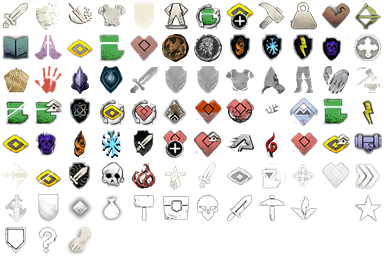
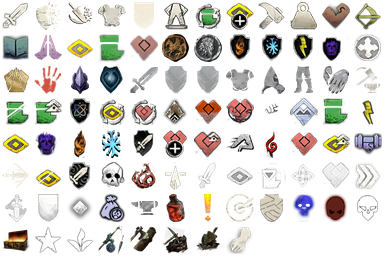
Item sources: game activity/map glyphs and our own category names
Source chips now use the game's own icons for each origin (merchant, crafting,
refinery, quest, bounty, challenge, Pestilence, enemy, boss, chest, shiny,
foraging, fishing, woodcutting, mining, digging) and our own labels.

Changed region(s): [[0.0, 0.75, 1.0, 1.0]]

diff --git a/index.html b/index.html
@@ -98,11 +98,12 @@
     StatMaxFocus:['FOC+','Max Focus'],StatEquipLoad:['LOAD','Equip Load'],StatAttackSpeed:['ATKSPD','Attack Speed'],StatFocusCost:['FOC−','Focus Cost'],
     StatStaggerResistance:['STAG','Stagger Resistance'],StatFatality:['FATAL','Fatality']
   };
-  var SRC={0:'Vendor',1:'Crafting',2:'Refinery',3:'Quest',4:'Reward',5:'Event',10:'Bounty',11:'Challenge',12:'Trial',13:'Pestilence Loot',20:'Enemy',21:'Boss',30:'Chest',31:'Shiny',32:'Breakable',33:'Pickup',40:'Fishing',41:'Wood Cutting',42:'Ore Mining',43:'Digging',50:'Other'};
+  // Where an item comes from, derived from the game's loot tables (vendor stock, bounty/challenge rewards,
+  // Pestilence cleanse rewards, enemy and boss drops, chests, shinies, foraging, fishing, trees, ore, digging spots).
+  var SRC={0:'Vendor',1:'Crafting',2:'Refinery',3:'Quest Reward',10:'Bounty',11:'Challenge',13:'Pestilence Reward',20:'Enemy Drop',21:'Boss Drop',30:'Chest',31:'Shiny',33:'Foraging',40:'Fishing',41:'Woodcutting',42:'Mining',43:'Digging'};
   function esc(s){ return String(s==null?'':s).replace(/[&<>"]/g,function(c){ return {'&':'&amp;','<':'&lt;','>':'&gt;','"':'&quot;'}[c]; }); }
   function icon(id,inl){ id=String(id).replace(/^fi-/,''); var a=ABBR[id]||[id.replace(/^(fi-|icon|Stat)/,'').slice(0,5).toUpperCase(),id]; return '<i class="wd-ic'+(inl?' inl':'')+'" data-ic="'+esc(id)+'" title="'+esc(a[1])+'"><span>'+esc(a[0])+'</span></i>'; }
-  var SRC_IC={0:'srcVendor',1:'srcCrafting',2:'srcCrafting',3:'srcQuest',10:'srcChallenge',11:'srcChallenge',20:'srcEnemy',21:'srcBoss',30:'srcChest',31:'srcShiny',33:'srcPlant',42:'srcOre'};
-  function srcChip(n){ var nm=SRC[n]||('Source '+n); return '<span class="wd-src" data-s="'+n+'">'+(SRC_IC[n]?'<i class="wd-ic" data-ic="'+SRC_IC[n]+'"></i>':'')+esc(nm)+'</span>'; }
+  function srcChip(n){ var nm=SRC[n]||('Source '+n); return '<span class="wd-src" data-s="'+n+'">'+(SRC[n]?'<i class="wd-ic" data-ic="src'+n+'"></i>':'')+esc(nm)+'</span>'; }
   function itemHref(key){ try{ if(window.__itemUrl) return window.__itemUrl(key); }catch(e){} return '#item/'+encodeURIComponent(key); }
   function linkHtml(l){
     var ic=l.pos?'<span class="wd-li-ic" style="background-position:'+l.pos[0]+'px '+l.pos[1]+'px"></span>':'<span class="wd-li-ic none"></span>';
@@ -2834,7 +2835,7 @@ footer li{color:#6f665b}
     <p class="m-cat-intro" data-m="intro:catalog">Hover or tap a card for the item&rsquo;s full panel.</p>
     <!-- SRCKEY -->
     <div class="src-key" data-m="srckey:catalog">
-      <span class="src-key-label">Sources, as shown on each item&rsquo;s full panel</span>
+      <span class="src-key-label">Where items come from, as shown on each item&rsquo;s full panel</span>
       <span class="src-item" data-src="0"></span>
       <span class="src-item" data-src="1"></span>
       <span class="src-item" data-src="2"></span>
@@ -7125,7 +7126,7 @@ var FACET_DATA=[{"n":"Frantic","it":32,"m":[[45,1,0.1],[21,1,-0.2]],"inf":null,"
   // lands on an item page straight from a link or search never sees it. Name each icon (hover /
   // screen-reader title) and list this item's own sources in words under the card. Same legend as
   // the Trove's .src-key block - keep the two in step.
-  var SRC_NAMES={0:'Vendor',1:'Crafting',2:'Refinery',3:'Quest Related',10:'Bounty',11:'Challenge',13:'Pestilence Extra Loot',20:'Enemy',21:'Boss',30:'Chest',31:'Shiny',33:'Pickup',40:'Fishing',41:'Wood Cutting',42:'Ore Mining',43:'Digging'};
+  var SRC_NAMES=WDCARD.SRC;
   function ipSourceKey(box){
     var ids=[]; box.querySelectorAll('.wd-src[data-s]').forEach(function(el){ var i=el.getAttribute('data-s'); if(SRC_NAMES[i]&&ids.indexOf(i)<0) ids.push(i); });
     if(!ids.length) return '';

diff --git a/tt.css b/tt.css
@@ -105,19 +105,24 @@
 .wd-ic[data-ic="groupK"]{background-position:-0px -132px;--gx:-0px;--gy:-192px}
 .wd-ic[data-ic="groupL"]{background-position:-22px -132px;--gx:-32px;--gy:-192px}
 .wd-ic[data-ic="groupNone"]{background-position:-44px -132px;--gx:-64px;--gy:-192px}
-.wd-ic[data-ic="srcVendor"]{background-position:-66px -132px;--gx:-96px;--gy:-192px}
-.wd-ic[data-ic="srcCrafting"]{background-position:-88px -132px;--gx:-128px;--gy:-192px}
-.wd-ic[data-ic="srcChest"]{background-position:-110px -132px;--gx:-160px;--gy:-192px}
-.wd-ic[data-ic="srcBoss"]{background-position:-132px -132px;--gx:-192px;--gy:-192px}
-.wd-ic[data-ic="srcEnemy"]{background-position:-154px -132px;--gx:-224px;--gy:-192px}
-.wd-ic[data-ic="srcOre"]{background-position:-176px -132px;--gx:-256px;--gy:-192px}
-.wd-ic[data-ic="srcPlant"]{background-position:-198px -132px;--gx:-288px;--gy:-192px}
-.wd-ic[data-ic="srcQuest"]{background-position:-220px -132px;--gx:-320px;--gy:-192px}
-.wd-ic[data-ic="srcShiny"]{background-position:-242px -132px;--gx:-352px;--gy:-192px}
-.wd-ic[data-ic="srcChallenge"]{background-position:-0px -154px;--gx:-0px;--gy:-224px}
-.wd-ic[data-ic="srcUnknown"]{background-position:-22px -154px;--gx:-32px;--gy:-224px}
-.wd-ic[data-ic="utilityRune"]{background-position:-44px -154px;--gx:-64px;--gy:-224px}
-.wd-ic[data-ic^="src"]{width:16px;height:16px;vertical-align:-3px;background-size:192px 128px;background-position:calc(var(--gx) * 16 / 32) calc(var(--gy) * 16 / 32);opacity:.85}
+.wd-ic[data-ic="src0"]{background-position:-66px -132px;--gx:-96px;--gy:-192px}
+.wd-ic[data-ic="src1"]{background-position:-88px -132px;--gx:-128px;--gy:-192px}
+.wd-ic[data-ic="src2"]{background-position:-110px -132px;--gx:-160px;--gy:-192px}
+.wd-ic[data-ic="src3"]{background-position:-132px -132px;--gx:-192px;--gy:-192px}
+.wd-ic[data-ic="src10"]{background-position:-154px -132px;--gx:-224px;--gy:-192px}
+.wd-ic[data-ic="src11"]{background-position:-176px -132px;--gx:-256px;--gy:-192px}
+.wd-ic[data-ic="src13"]{background-position:-198px -132px;--gx:-288px;--gy:-192px}
+.wd-ic[data-ic="src20"]{background-position:-220px -132px;--gx:-320px;--gy:-192px}
+.wd-ic[data-ic="src21"]{background-position:-242px -132px;--gx:-352px;--gy:-192px}
+.wd-ic[data-ic="src30"]{background-position:-0px -154px;--gx:-0px;--gy:-224px}
+.wd-ic[data-ic="src31"]{background-position:-22px -154px;--gx:-32px;--gy:-224px}
+.wd-ic[data-ic="src33"]{background-position:-44px -154px;--gx:-64px;--gy:-224px}
+.wd-ic[data-ic="src40"]{background-position:-66px -154px;--gx:-96px;--gy:-224px}
+.wd-ic[data-ic="src41"]{background-position:-88px -154px;--gx:-128px;--gy:-224px}
+.wd-ic[data-ic="src42"]{background-position:-110px -154px;--gx:-160px;--gy:-224px}
+.wd-ic[data-ic="src43"]{background-position:-132px -154px;--gx:-192px;--gy:-224px}
+.wd-ic[data-ic="utilityRune"]{background-position:-154px -154px;--gx:-224px;--gy:-224px}
+.wd-ic[data-ic^="src"]{width:16px;height:16px;vertical-align:-3px;background-size:192px 128px;background-position:calc(var(--gx) * 16 / 32) calc(var(--gy) * 16 / 32);opacity:.9}
 .wd-slots{display:grid;grid-template-columns:repeat(2,minmax(0,1fr));gap:3px 10px;padding:2px 14px}
 .wd-gems{grid-template-columns:1fr}
 .wd-slot{display:flex;align-items:center;gap:6px;min-height:20px}
